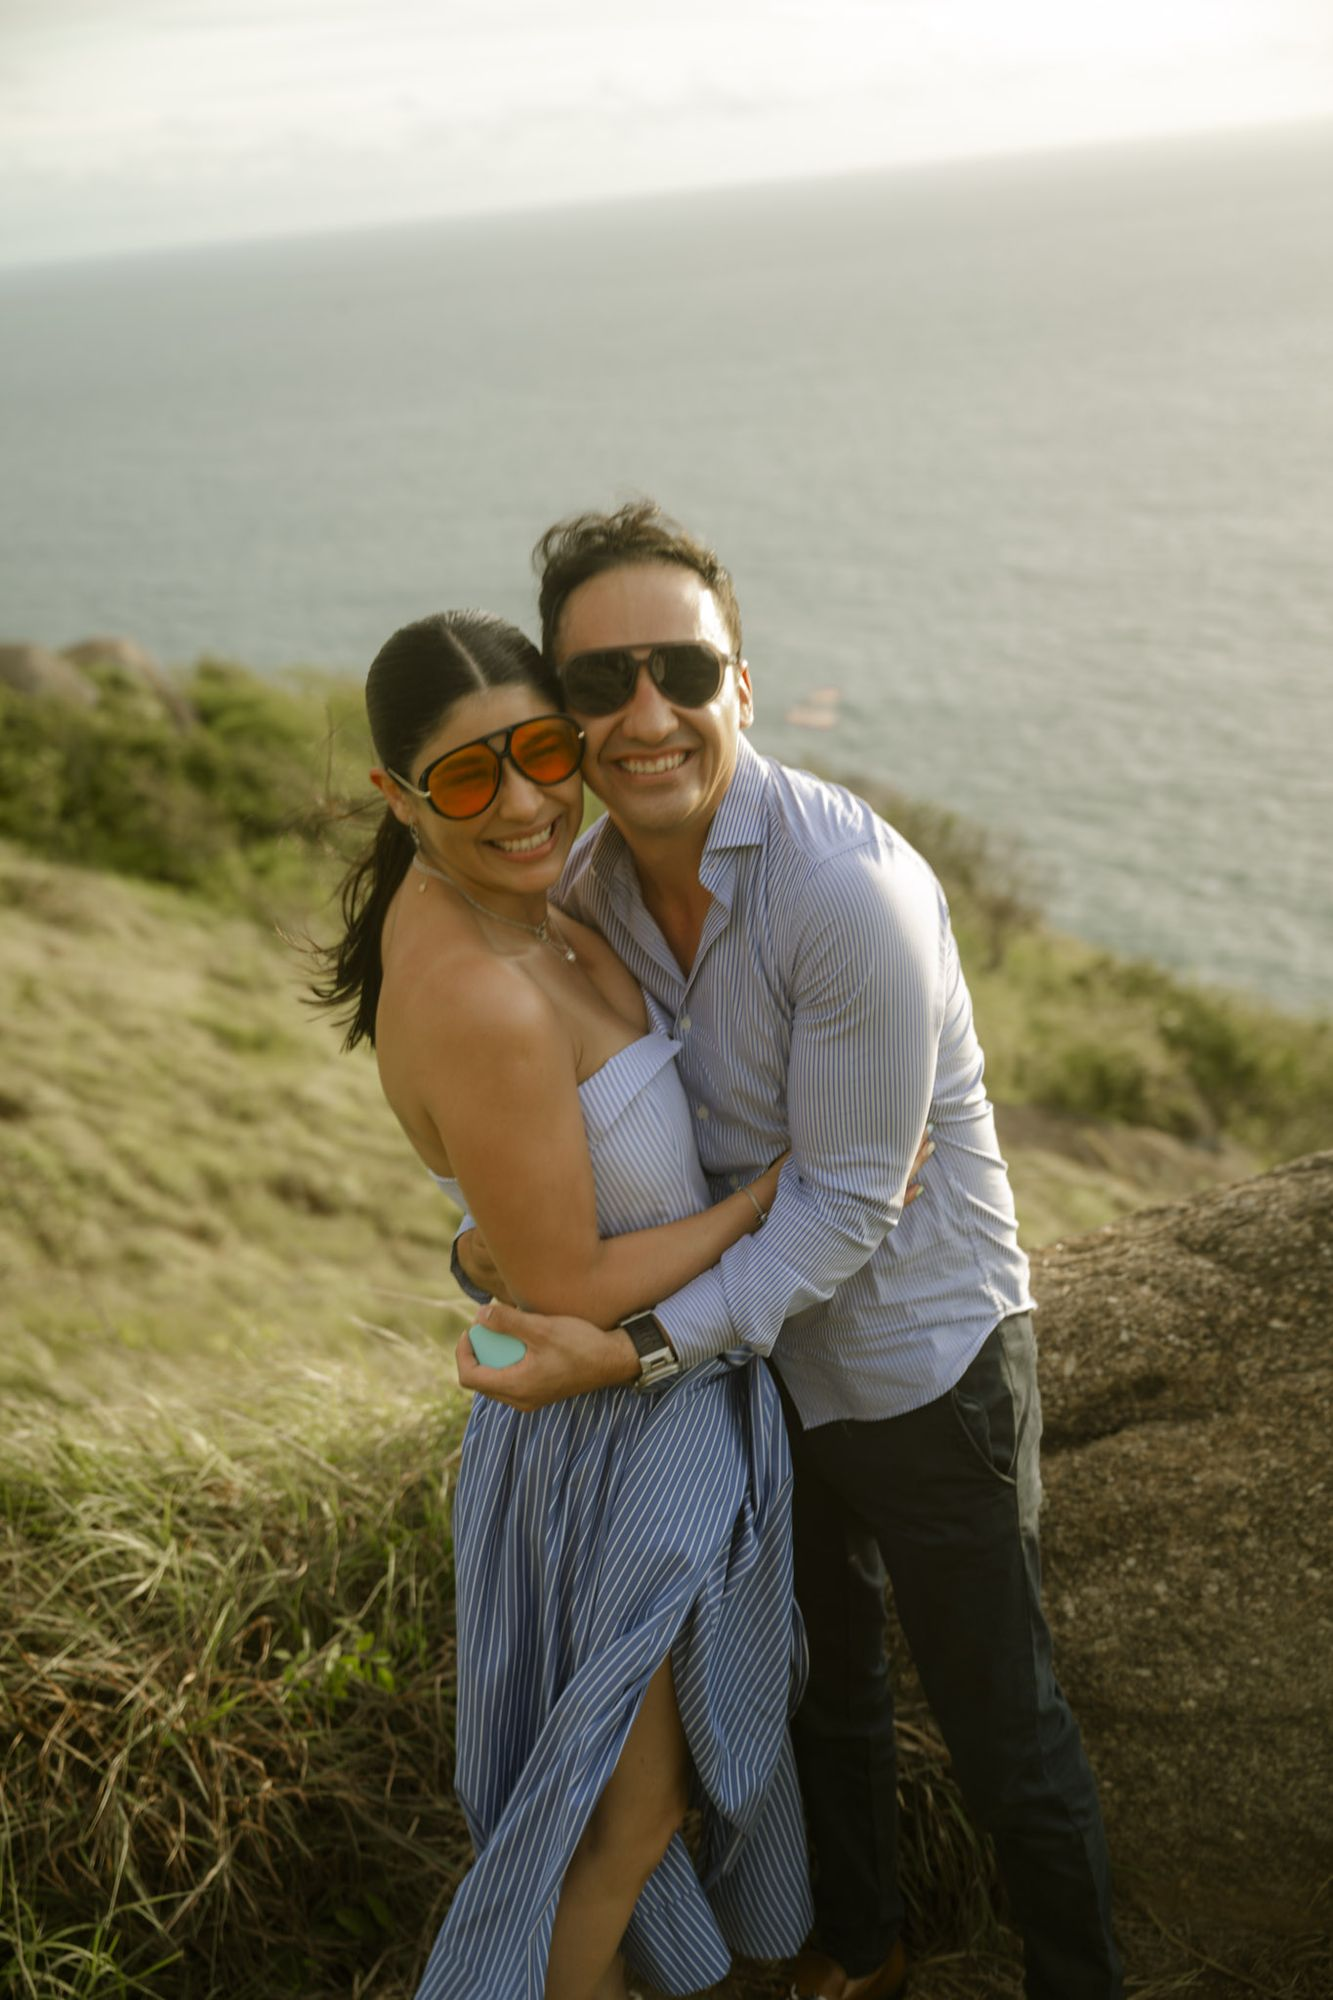
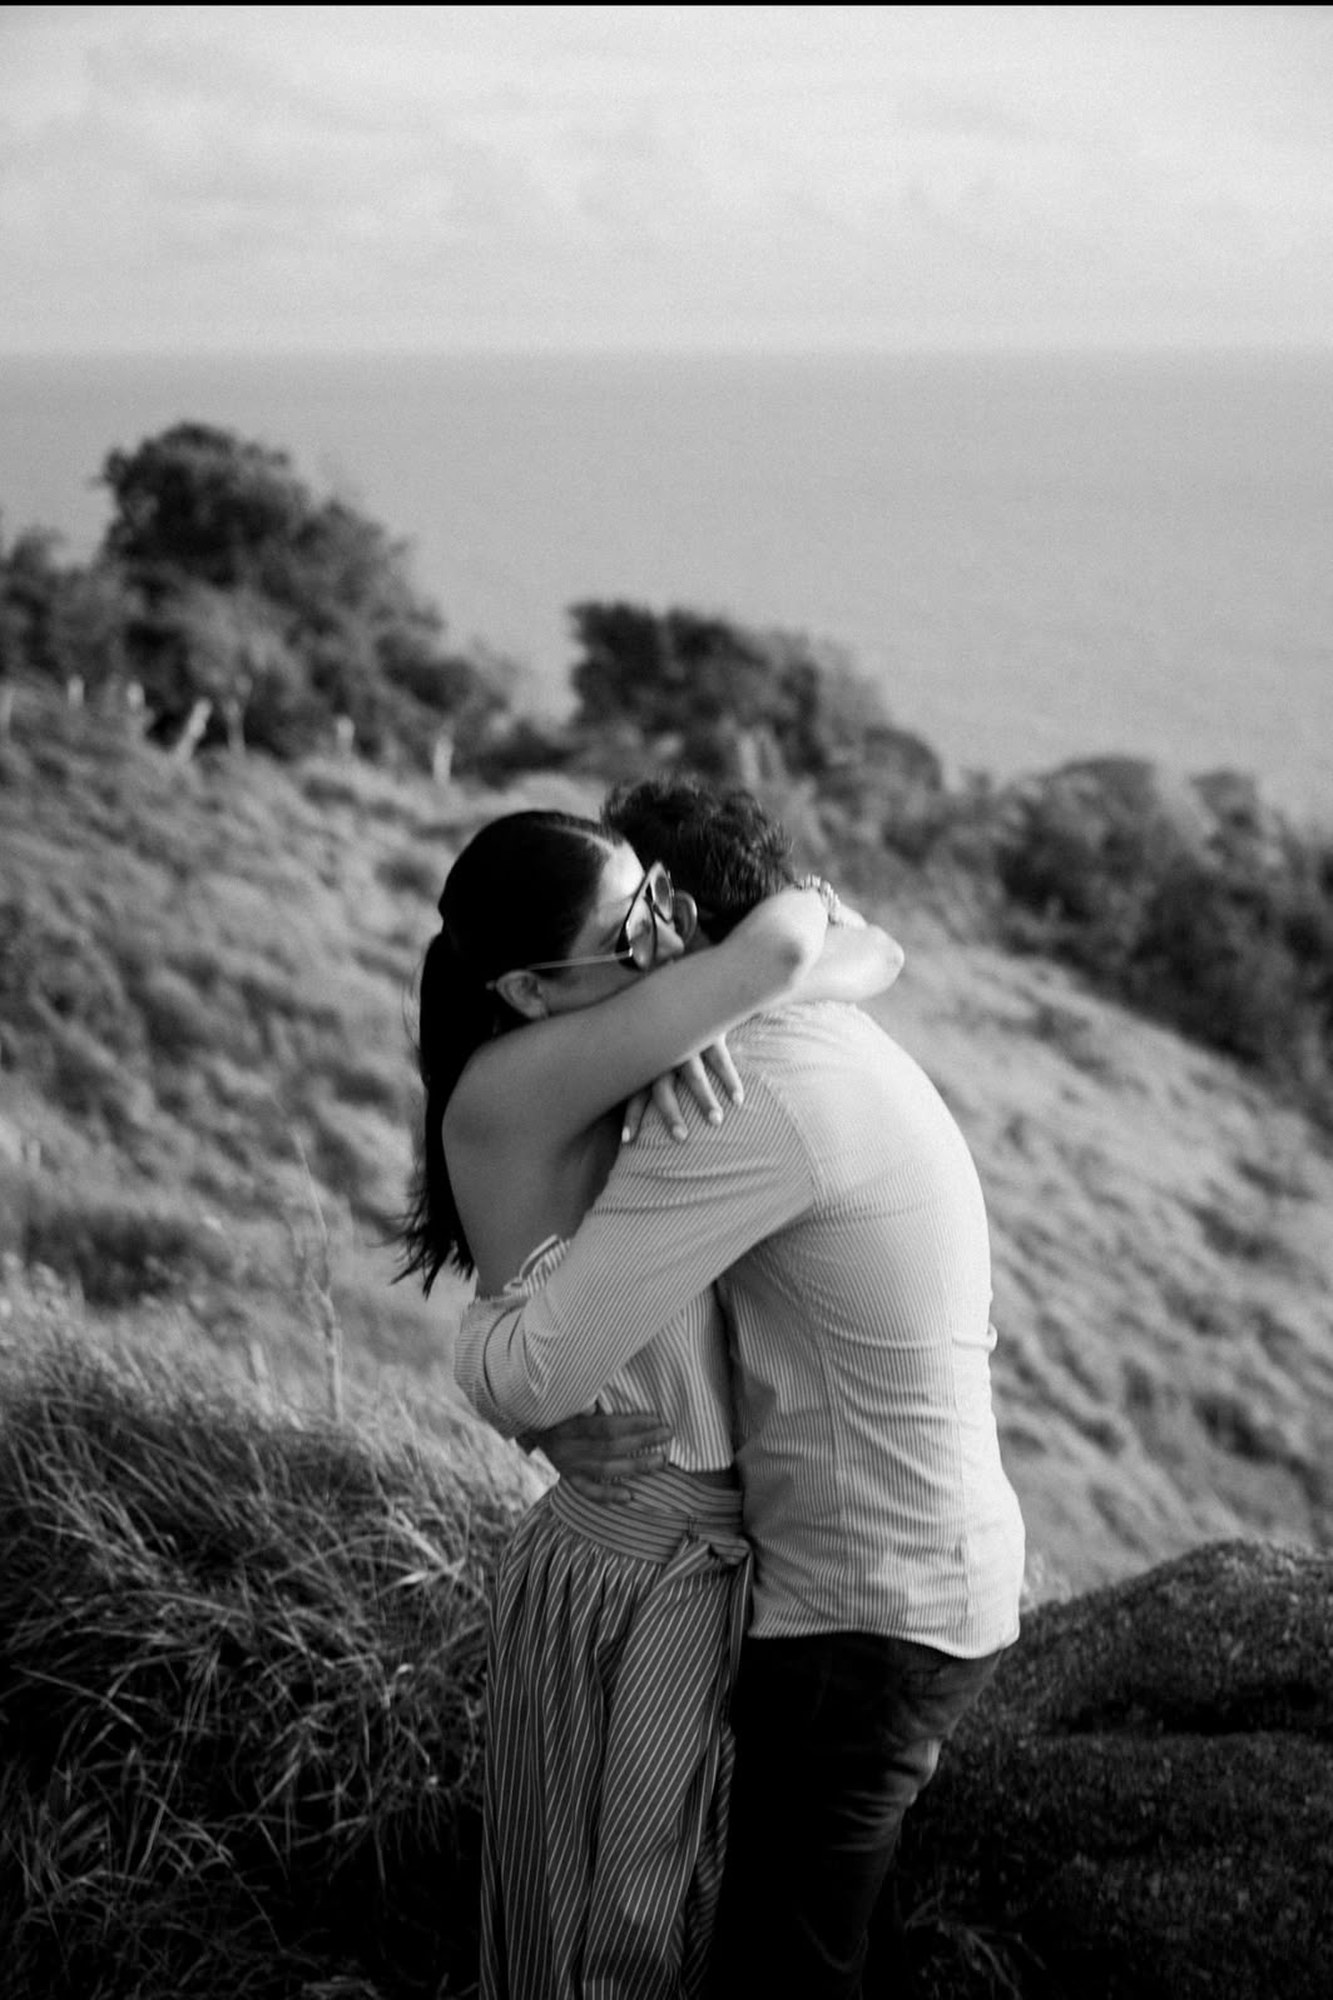
Invitacion boda Luz e Isaac: verde mate, nueva portada, correccion de nombre, nota de la cascada y hospedajes

diff --git a/public/invitaciones/nuestra-boda-luz-isaac/index.html b/public/invitaciones/nuestra-boda-luz-isaac/index.html
@@ -6,7 +6,7 @@
   <title>Luz Elena &amp; Isaac – 17·07·2027</title>
   <base href="/invitacion/nuestra-boda-luz-isaac/">
   <meta name="description" content="Luz Elena & Isaac se casan el 17 de julio de 2027 en Piedra Viva, Tepoztlán, Morelos. Acompáñanos a celebrar.">
-  <meta name="theme-color" content="#4F5E1F">
+  <meta name="theme-color" content="#4D5631">
   <meta property="og:type" content="website">
   <meta property="og:title" content="Luz Elena & Isaac – 17·07·2027">
   <meta property="og:description" content="Nos casamos el 17 de julio de 2027 en Piedra Viva, Tepoztlán. Te invitamos a celebrar con nosotros.">
@@ -80,6 +80,24 @@
     <symbol id="hoja" viewBox="0 0 32 32">
       <path d="M4 28 C4 12 14 4 28 4 C28 18 20 28 4 28 Z M4 28 L22 10" fill="none" stroke="currentColor" stroke-width="1.6" stroke-linejoin="round"/>
     </symbol>
+    <symbol id="bodegon" viewBox="0 0 220 90">
+      <g fill="none" stroke="currentColor" stroke-width="1.6" stroke-linecap="round" stroke-linejoin="round">
+        <path d="M18 62 A26 16 0 0 0 70 62 Z"/>
+        <circle cx="30" cy="52" r="7"/>
+        <circle cx="46" cy="45" r="8"/>
+        <circle cx="62" cy="52" r="7"/>
+        <path d="M96 22 h20 l-3 12 c6 10 4 22 -4 30 h-6 c-8 -8 -10 -20 -4 -30 Z"/>
+        <path d="M94 22 h24"/>
+        <path d="M106 22 C106 12 114 6 122 8"/>
+        <path d="M140 72 C150 52 166 36 188 28"/>
+        <g fill="currentColor" stroke="none" opacity=".9">
+          <ellipse cx="118" cy="10" rx="6" ry="3" transform="rotate(-30 118 10)"/>
+          <ellipse cx="152" cy="56" rx="8" ry="4.5" transform="rotate(-40 152 56)"/>
+          <ellipse cx="166" cy="42" rx="8" ry="4.5" transform="rotate(-25 166 42)"/>
+          <ellipse cx="182" cy="32" rx="8" ry="4.5" transform="rotate(-15 182 32)"/>
+        </g>
+      </g>
+    </symbol>
   </defs>
 </svg>
 
@@ -89,6 +107,7 @@
     <p class="eyebrow">Estás invitado</p>
     <div class="sello" aria-hidden="true"><span>L &amp; I</span></div>
     <p class="nombres-script">Luz Elena &amp; Isaac</p>
+    <svg class="bodegon bodegon-apertura" aria-hidden="true"><use href="#bodegon"/></svg>
     <button type="button" class="btn btn-claro" id="abrir">Toca para abrir</button>
   </div>
 </div>
@@ -111,6 +130,7 @@
       <p class="fecha-hero"><span>17</span><i></i><span>07</span><i></i><span>2027</span></p>
       <!-- EDITAR: frase de amor (cita de portada; es el título de su canción) -->
       <p class="cita">“Siempre te busqué”</p>
+      <svg class="bodegon" aria-hidden="true"><use href="#bodegon"/></svg>
       <a class="scroll-hint" href="#bienvenida" aria-label="Ir a la invitación">
         <svg viewBox="0 0 24 24" width="22" height="22" aria-hidden="true"><path d="M5 9 L12 16 L19 9" fill="none" stroke="currentColor" stroke-width="1.6"/></svg>
       </a>
@@ -156,7 +176,7 @@
         <svg class="hoja-sep" aria-hidden="true"><use href="#hoja"/></svg>
         <div class="padres-col">
           <h3 class="subtitulo">Padres del novio</h3>
-          <p>María Anabella Quiroz Domínguez</p>
+          <p>María Anabella Domínguez Rodríguez</p>
           <p>Juan Manuel Quiroz Cabrera</p>
         </div>
       </div>
@@ -252,7 +272,38 @@
       <a class="btn" href="https://www.google.com/maps/search/?api=1&amp;query=Piedra+Viva+Tepoztl%C3%A1n+Morelos" target="_blank" rel="noopener">Ver ubicación</a>
       <div class="nota">
         <h3 class="subtitulo">Nota para nuestros invitados</h3>
-        <p>El evento inicia en una zona fuera del salón, dentro del mismo hotel, reservada exclusivamente para los novios. Junto a ella, en otra área, se encuentra el salón de la boda.</p>
+        <p>La ceremonia se realizará en el área de la cascada, dentro del mismo hotel, el cual está reservado en su totalidad para los novios y sus invitados. A su costado se encontrará el salón de boda.</p>
+      </div>
+    </div>
+  </section>
+
+  <!-- HOSPEDAJE -->
+  <section class="seccion centro" id="hospedaje" aria-labelledby="t-hospedaje">
+    <div class="contenedor reveal">
+      <svg class="divisor" aria-hidden="true"><use href="#rama"/></svg>
+      <h2 id="t-hospedaje" class="titulo">Hospedaje</h2>
+      <p class="lead">Sugerencia de otros hospedajes cercanos.</p>
+      <div class="regalos">
+        <article class="regalo-card">
+          <h3 class="subtitulo">Hotel Amomoxtli</h3>
+          <p>C. Netzahualcóyotl 115, Valle de Atongo, 62520 Tepoztlán, Mor.</p>
+          <a class="btn btn-chico" href="https://www.google.com/maps/search/?api=1&amp;query=Hotel+Amomoxtli+Tepoztl%C3%A1n+Morelos" target="_blank" rel="noopener">Ver ubicación</a>
+        </article>
+        <article class="regalo-card">
+          <h3 class="subtitulo">Hotel Buena Vibra</h3>
+          <p>San Lorenzo 7, Valle de Atongo, 62520 Tepoztlán, Mor.</p>
+          <a class="btn btn-chico" href="https://www.google.com/maps/search/?api=1&amp;query=Hotel+Buena+Vibra+Tepoztl%C3%A1n+Morelos" target="_blank" rel="noopener">Ver ubicación</a>
+        </article>
+        <article class="regalo-card">
+          <h3 class="subtitulo">Hotel Boutique Casa de Agua</h3>
+          <p>Amatlán, Rinconada del Carmen, 62524 Tepoztlán, Mor.</p>
+          <a class="btn btn-chico" href="https://www.google.com/maps/search/?api=1&amp;query=Hotel+Boutique+Casa+de+Agua+Tepoztl%C3%A1n+Morelos" target="_blank" rel="noopener">Ver ubicación</a>
+        </article>
+        <article class="regalo-card">
+          <h3 class="subtitulo">Hotel Boutique Casa Fernanda</h3>
+          <p>Del Niño Artillero 20, San Jose, 62520 Tepoztlán, Mor.</p>
+          <a class="btn btn-chico" href="https://www.google.com/maps/search/?api=1&amp;query=Hotel+Boutique+Casa+Fernanda+Tepoztl%C3%A1n+Morelos" target="_blank" rel="noopener">Ver ubicación</a>
+        </article>
       </div>
     </div>
   </section>

diff --git a/public/invitaciones/nuestra-boda-luz-isaac/css/styles.css b/public/invitaciones/nuestra-boda-luz-isaac/css/styles.css
@@ -1,8 +1,8 @@
 /* ============ Paleta (ajustable) ============ */
 :root {
-  --olivo: #4F5E1F;
-  --salvia: #9DB0A0;
-  --salvia-oscuro: #6F8470;
+  --olivo: #4D5631;
+  --salvia: #9EAAA0;
+  --salvia-oscuro: #728173;
   --dorado: #A98A4A;
   --arena: #D4BE9D;
   --crema: #FDF4E7;
@@ -94,14 +94,14 @@ a { color: inherit; }
   min-height: 100svh; min-height: 100vh;
   display: grid; place-items: center; text-align: center; position: relative; overflow: hidden;
   color: var(--blanco-roto);
-  background: linear-gradient(160deg, #4F5E1F 0%, #5C6E4E 55%, #6F8470 100%);
+  background: linear-gradient(160deg, #4D5631 0%, #5D6854 55%, #728173 100%);
   background-size: cover; background-position: center;
   padding: 3rem 1.25rem;
 }
 .hero.con-foto { background-blend-mode: normal; background-position: center 40%; align-items: end; padding-bottom: 4.5rem; }
 @media (max-width: 899px) { .hero.con-foto { background-size: auto 120%; background-position: 45% 100%; } }
-.hero::before { content: ""; position: absolute; inset: 0; background: rgba(40,48,20,.45); }
-.hero:not(.con-foto)::before { background: rgba(30,38,16,.28); }
+.hero::before { content: ""; position: absolute; inset: 0; background: rgba(46,52,31,.45); }
+.hero:not(.con-foto)::before { background: rgba(37,43,26,.28); }
 .hero-contenido { position: relative; z-index: 1; max-width: 640px; }
 .hero .monograma { border-color: #E3CE9B; outline-color: rgba(227,206,155,.5); }
 .hero h1 { font-size: clamp(3.2rem, 14vw, 5.6rem); text-shadow: 0 2px 14px rgba(0,0,0,.28); }
@@ -118,6 +118,10 @@ a { color: inherit; }
 .e-tl { top: 12px; left: 12px; }
 .e-br { bottom: 12px; right: 12px; transform: rotate(180deg); }
 
+/* ============ Naturaleza muerta (portada) ============ */
+.bodegon { display: block; width: 220px; height: 90px; margin: 0 auto 1.1rem; color: #E3CE9B; opacity: .9; }
+.bodegon-apertura { width: 190px; height: 78px; margin: 0 auto 1.4rem; }
+
 /* ============ Botones ============ */
 .btn {
   display: inline-block; cursor: pointer; text-decoration: none;
@@ -127,11 +131,11 @@ a { color: inherit; }
   padding: .95rem 1.8rem; min-height: 48px;
   transition: background .25s, color .25s, transform .25s;
 }
-.btn:hover { background: #3F4C16; transform: translateY(-1px); }
+.btn:hover { background: #3C4324; transform: translateY(-1px); }
 .btn-claro { background: var(--blanco-roto); color: var(--olivo); border-color: var(--blanco-roto); }
 .btn-claro:hover { background: var(--crema); }
 .salvia .btn-claro { background: var(--olivo); color: var(--blanco-roto); border-color: var(--olivo); }
-.salvia .btn-claro:hover { background: #3F4C16; }
+.salvia .btn-claro:hover { background: #3C4324; }
 .btn-chico { padding: .7rem 1.3rem; font-size: .8rem; margin-top: .4rem; }
 
 /* ============ Cuenta regresiva ============ */
@@ -266,7 +270,7 @@ a { color: inherit; }
 .apertura { display: none; }
 .js .apertura {
   display: grid; place-items: center; position: fixed; inset: 0; z-index: 200; text-align: center; padding: 1.5rem;
-  background: radial-gradient(circle at 50% 35%, #56694F, #4F5E1F 75%); color: var(--blanco-roto);
+  background: radial-gradient(circle at 50% 35%, #586454, #4D5631 75%); color: var(--blanco-roto);
   transition: opacity .8s ease, visibility .8s;
 }
 .js .apertura.abierta { opacity: 0; visibility: hidden; pointer-events: none; }

diff --git a/public/invitaciones/nuestra-boda-luz-isaac/assets/README.md b/public/invitaciones/nuestra-boda-luz-isaac/assets/README.md
@@ -2,7 +2,7 @@
 
 | Archivo | Contenido |
 |---|---|
-| `photos/portada.jpg` | Portada (IS.ED-12, 1333x2000). Se encuadra con `background-position: center 28%` en css/styles.css |
+| `photos/portada.jpg` | Portada (foto en blanco y negro de los novios abrazados, 1333x2000; es la misma que `foto5.jpg` del carrusel). Se encuadra con `background-position: center 28%` en css/styles.css |
 | `photos/og.jpg` | Vista previa para WhatsApp (1200x630). Al publicar, `og:image` en index.html debe ser una URL absoluta (https://tu-dominio/assets/photos/og.jpg) |
 | `photos/poster.jpg` | Imagen previa del video (fotograma a los 3 s) |
 | `photos/foto1.jpg` ... `foto12.jpg` | Carrusel (1067x1600). Orden: 30, 24, 12, 13, 10, 103, 28, 117, 7, 48, 47, 79 de "Fotos y video" |
